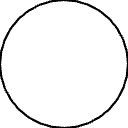
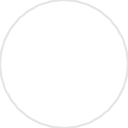
feat: add a `decor circle light` to 301

Changed region(s): [[0.0, 0.0, 1.0, 1.0]]

diff --git a/TODO.md b/TODO.md
@@ -10,8 +10,9 @@
     - `demo_add_decor`
   - 🚧 lights as decor circle
     - ✅ decor image `circle-1` (sgu)
-    - 🚧 can uniformly scale image node around its center
-    - 🚧 uniform scale picked up by decor
+    - ✅ can uniformly scale image node around its center
+    - ✅ uniform scale picked up by decor
+    - 🚧 replace lights with `decor circle light`
   - do-points as decor point
     - visual representation
   - labels as decor point
